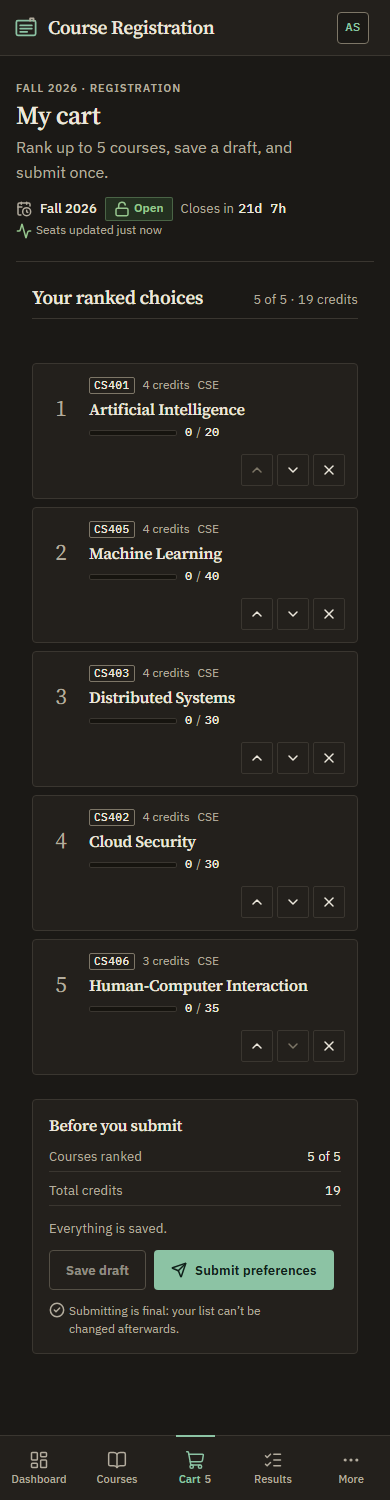
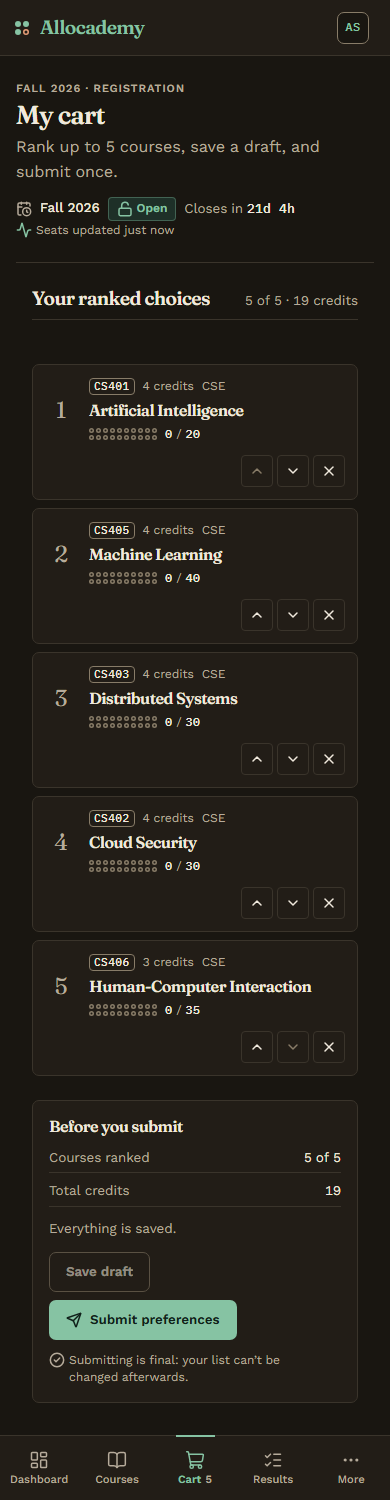
docs: the README reads as Allocademy, and says what the design is
The name, a Design section describing the direction and what carries it, the
catalogue screenshot, and a pointer to the two directions it was chosen over.
Every page's screenshot was recaptured against the new look.

diff --git a/frontend/src/components/SeatMeter/SeatMeter.module.css b/frontend/src/components/SeatMeter/SeatMeter.module.css
@@ -45,7 +45,7 @@
 
 /* Compact (table cells): a smaller matrix beside the figures, not above them. */
 .meter[data-compact='true'] {
-  --dot-size: 5px;
+  --dot-size: 6px;
   --dot-gap: 2px;
 
   grid-template-columns: max-content minmax(0, 1fr);

diff --git a/README.md b/README.md
@@ -1,10 +1,10 @@
-# Course Registration and Elective Allocation Platform
+# Allocademy
 
-A web platform for fair course registration: a live course catalogue, an
-eligibility pre-check before the window opens, a registration cart that submits
-atomically, preference-and-priority allocation for oversubscribed electives,
-waitlists that promote automatically as seats free up, add/drop, and a personal
-registration history.
+**Course registration and elective allocation, done fairly.** A live course
+catalogue, an eligibility pre-check before the window opens, a registration cart
+that submits atomically, preference-and-priority allocation for oversubscribed
+electives, waitlists that promote automatically as seats free up, add/drop, and
+a personal registration history.
 
 ![Student dashboard](docs/screenshots/student-dashboard-1280-light.png)
 
@@ -16,6 +16,7 @@ registration history.
 | [docs/CONCURRENCY.md](docs/CONCURRENCY.md)                 | The atomic submit, promotion and the seat race    |
 | [docs/DATABASE.md](docs/DATABASE.md)                       | Schema, constraints and seed data                 |
 | [docs/DESIGN.md](docs/DESIGN.md)                           | The visual system and every review round          |
+| [docs/redesign/](docs/redesign/)                           | The three directions this design was chosen from  |
 | [docs/DEMO.md](docs/DEMO.md)                               | A step-by-step script for demonstrating it        |
 | [docs/javascript-concepts.md](docs/javascript-concepts.md) | Where the JavaScript and TypeScript concepts live |
 
@@ -178,6 +179,40 @@ exists.
 
 ---
 
+## Design
+
+**A warm academic catalogue, not a dashboard.** Finding out what you can take
+and whether there is room is a reading task before it is a control task, so the
+interface is built like a catalogue: clay around warm paper, forest green as the
+one colour you have to learn, and ruled entries rather than a grid of boxed
+cards. Terracotta means "you cannot have this" and nothing else; amber means
+"not yet".
+
+**Fraunces** carries the voice on its optical-size axis — a 40px page title and
+a 13px course code are drawn differently rather than scaled — with **Work Sans**
+for the interface and **IBM Plex Mono** kept for the things that align by the
+character. Both are self-hosted variable fonts; there is no Tailwind, no CSS
+framework and no inline styles, only hand-written CSS Modules over the tokens in
+[`variables.css`](frontend/src/styles/variables.css).
+
+**The seat count gets a drawing as well as a number**: a twenty-dot matrix,
+filled = taken, the same size on every course whatever its capacity, with the
+exact figures beside it. Nothing is ever carried by colour alone — every status
+is an icon plus words, and every meter prints its numbers.
+
+[`node frontend/src/styles/contrast.mjs`](frontend/src/styles/contrast.mjs)
+reads the tokens straight out of the stylesheet and checks all 48 pairs across
+both themes against WCAG AA, 4.5:1 for text and 3:1 for borders. It exits
+non-zero on a failure, so the palette cannot quietly drift.
+
+The full system, the dark theme and every review round:
+[docs/DESIGN.md](docs/DESIGN.md). The two directions it was chosen over:
+[docs/redesign/](docs/redesign/).
+
+![Course catalogue](docs/screenshots/student-courses-1280-light.png)
+
+---
+
 ## Architecture
 
 ```mermaid
@@ -261,7 +296,8 @@ flowchart TB
 | **TypeScript 5.9**          | Everywhere, `strict` plus `noUncheckedIndexedAccess`. `any` is a lint error                          |
 | **Vite 6**                  | Dev server with hot reload, and the production build with route-level code splitting                 |
 | **React Router 7**          | Routing, lazy route chunks, and the layout routes that guard student and admin areas                 |
-| **CSS Modules + CSS3**      | All styling. Design tokens as custom properties; no Tailwind, no CSS-in-JS                           |
+| **CSS Modules + CSS3**      | All styling, hand-written. Design tokens as custom properties; no Tailwind, no CSS-in-JS             |
+| **Fraunces + Work Sans**    | Self-hosted variable fonts. Fraunces carries the display voice on its optical-size axis              |
 | **Node 20.12+**             | The backend runtime (developed on 20, verified on 22 and 24)                                         |
 | **Express 5**               | HTTP, middleware, routing                                                                            |
 | **PostgreSQL 16**           | The source of truth: constraints, triggers, transactions, `FOR UPDATE`/`FOR SHARE`, advisory locks   |
